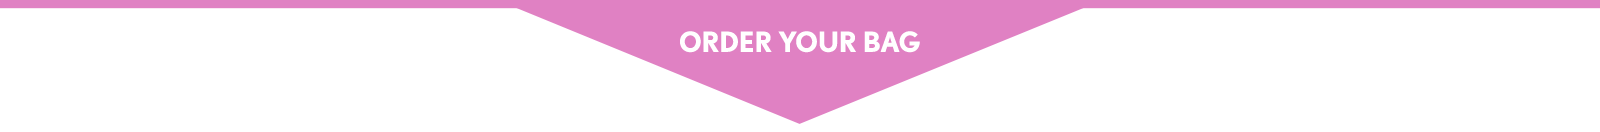
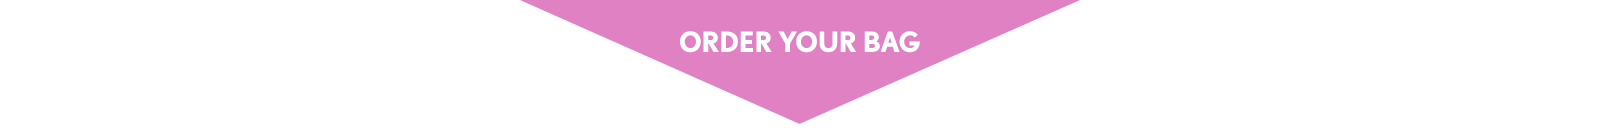
lbb4

diff --git a/newlbbsite/css/style.css b/newlbbsite/css/style.css
@@ -2,6 +2,8 @@ body {
 	background-color: #000000;
 	font-family: 'Open Sans', sans-serif;
 	font-weight: 300;
+		margin: 0 auto;
+
 }
 
 p.headline {
@@ -85,8 +87,7 @@ img.imglogo {
 	width: 100%;
 	height:630px;
   background: url("../images/headerbannerbag.png") no-repeat bottom center black; 
-  margin-bottom: -5px;
-}
+  }
 
 #logo {
 	width: 30%;
@@ -97,12 +98,16 @@ img.imglogo {
 
 #packages {
 	width: 100%;
-	padding-top: 10%;
-	background: url("../images/orderbag.png") center top no-repeat white;
-
-
+	margin: 0 auto;
+	background: white;
 }
 
+#packagesfixed {
+	padding-top: 10%;
+	background: url("../images/orderbag.png") center top no-repeat white;
+		margin: 0 auto;
+
+}
 #flatbubble {
 	position: absolute;
 	margin-left: 57%; margin-bottom: 100px;
@@ -150,6 +155,7 @@ img.imglogo {
 
 #textus {
 	width: 70%;
+	max-width: 700px;
 	border: 1px solid #e081c3;
 	margin-left: 15%;
 	margin-right: 15%;
@@ -202,11 +208,17 @@ img.imglogo {
 /* Laptop/Tablet (1024px) */
 @media only screen and (min-width: 481px) and (max-width: 1024px) and (orientation: landscape) {
 	#top { width: 100%;}
-	#packages { 
-		width: 100%;
-	  padding-top: 10%;
-	}
-	
+
+#packages {
+	width: 100%;
+
+
+}
+
+#packagesfixed {
+	width: 100%;
+
+}
 	#textus { width: 100%; }
 	#logo { width: 100%; padding-bottom: 5%;}
 	#navi { width: 100%; visibility: hidden; display: none;}
@@ -228,7 +240,7 @@ img.imglogo {
 	  padding-top: 10%;
 }
 	#textus { width: 80%; margin: 0 10% 10% 10%;}
-	#logo { width: 100%; padding-bottom: 5%; }
+	#logo { width: 100%; padding-bottom: 10%; margin-left: 25%;}
 	#navi { width: 100%; visibility: hidden; display: none;}
 	#refresh { width: 25%; margin: 5% 10% 5% 5%;}
 	#basic { width: 25%; margin: 5% 5% 5% 10%;}

diff --git a/newlbbsite/index.html b/newlbbsite/index.html
@@ -26,13 +26,14 @@
 </div></div>
 
                 <div class='box' id='packages'>
+                    <div class='box' id='packagesfixed'>
                     <div class='box' id='basic'>
                         <img src="images/basicbag.png"></br>Feel fresh and clean with our basic package, which includes mouthwash, toothbrush, toothpaste, face wipes, and deodorant. And as always, a fun surprise item too! :)
                     </br><h3> $20</h3></div>
                     <div class='box' id='oroption'><img src="images/oroption.png"></div>
                     <div class='box' id='refresh'>
                         <img src="images/refreshbag.png"></br>Need a change of clothes? Our refresh bag includes a one-size-fits-most black outfit in addition to everything in the basic package. And as always, a fun surprise item too! :)
-                    </br><h3> $30</h3></div>
+                    </br><h3> $30</h3></div></div>
                     <div class='box' id='textus'>
                         <div class='box' id='textusimage'><img src="images/phone.png"></div>
                         <div class='box' id='textusinfo'>
